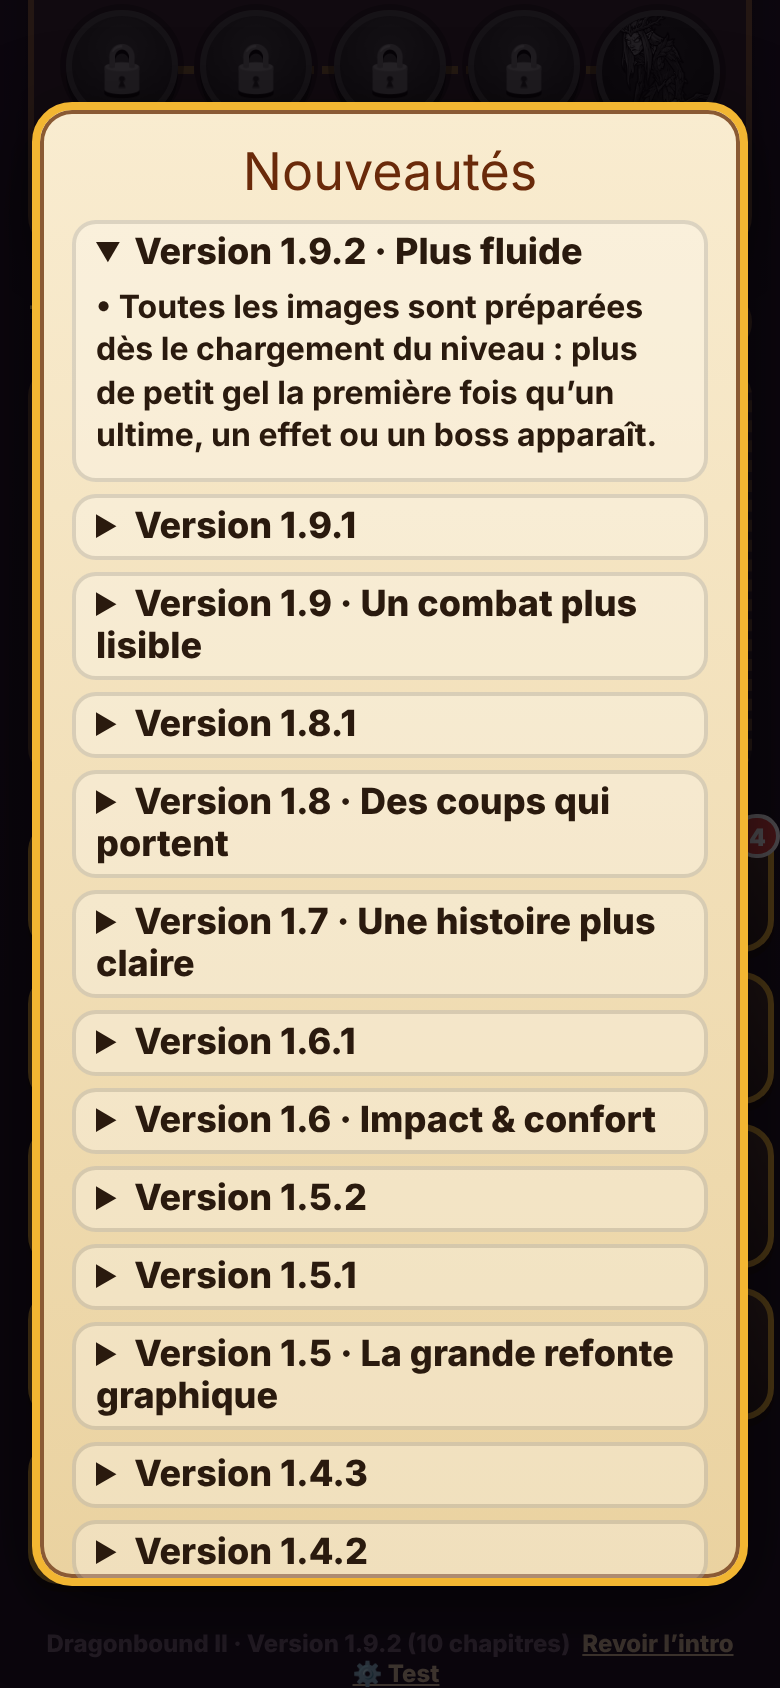
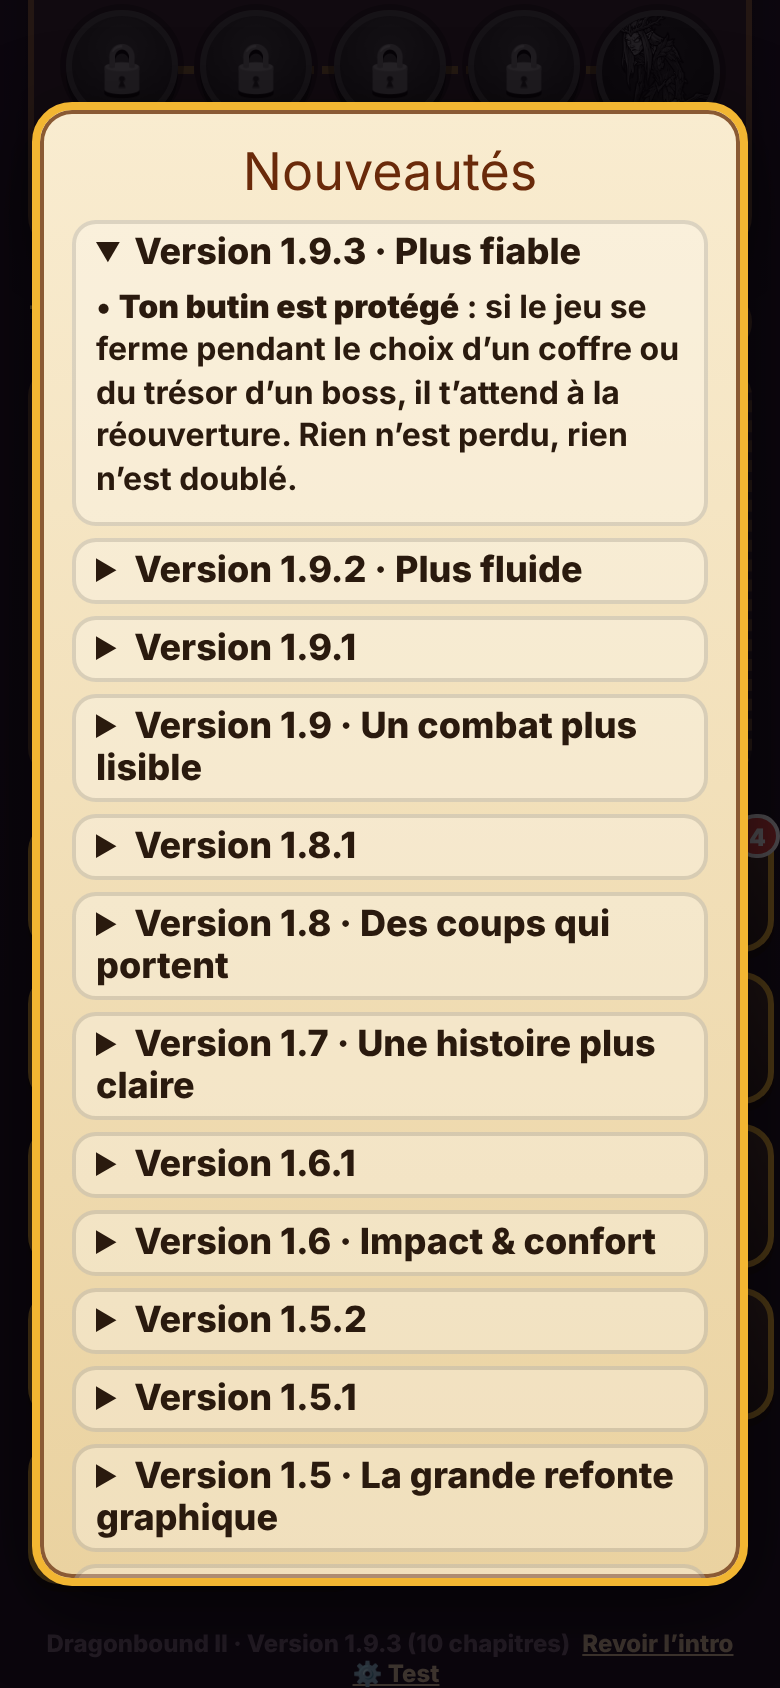
Dragonbound II 1.9.3 : lot 1 Fiabilité (butin protégé, interrupteur version commerciale, tests)
Claude-Session: https://claude.ai/code/session_01G2LeSq3BZwgWtQEzaTDVtd

Changed region(s): [[0.0923, 0.1232, 0.9231, 0.955]]

diff --git a/prototype/dragonbound-tests/db211.js b/prototype/dragonbound-tests/db211.js
@@ -8,7 +8,7 @@ const H = ['aldric', 'selena', 'orin', 'lyra', 'nyx'];
 const inv = [{ id: 1, slot: 'w', r: 1, t: 3, st: { atk: 6 }, hero: 'aldric', img: 'wSword', name: 'Épée A' }, { id: 2, slot: 'w', r: 3, t: 8, st: { atk: 20 }, hero: 'aldric', img: 'wSword', name: 'Épée B', pw: 'vampire' },
   { id: 3, slot: 'a', r: 2, t: 5, st: { hp: 40, def: 4 }, img: 'a0armure', name: 'Armure C' }, { id: 4, slot: 'w', r: 2, t: 5, st: { atk: 12 }, hero: 'nyx', img: 'wDaggers', name: 'Dagues N' }];
 const base = o => Object.assign({ v: 2, gold: 100, items: { pot: 3, eth: 1, fea: 1, eli: 0 }, h: Object.fromEntries(H.map(k => [k, { lvl: 6, xp: 0, w: 0, a: 0, eq: k === 'aldric' ? { w: 1 } : {} }])),
-  team: ['aldric', 'selena'], own: { aldric: 1, selena: 1 }, stars: Array(50).fill(0), seen: { in: 1, vid: 1, vid2: 1, n09: 1, n10: 1, ver: '1.9.2' }, mute: true, ch: 1, inv, nid: 10, spd: 3 }, o);
+  team: ['aldric', 'selena'], own: { aldric: 1, selena: 1 }, stars: Array(50).fill(0), seen: { in: 1, vid: 1, vid2: 1, n09: 1, n10: 1, ver: '1.9.3' }, mute: true, ch: 1, inv, nid: 10, spd: 3 }, o);
 srv.listen(0, async () => {
   const url = `http://127.0.0.1:${srv.address().port}/dragonbound2/index.html`, b = await chromium.launch(), errs = [];
   for (const [w, h, tag] of [[390, 844, 'portrait'], [1180, 820, 'paysage']]) {
@@ -50,7 +50,7 @@ srv.listen(0, async () => {
     // news once per version: old 1.0.2 save (n10, no ver)
     await load(base({ seen: { in: 1, vid: 1, vid2: 1, n09: 1, n10: 1 } })); const h3 = await pg.textContent('#modal:not([hidden]) h3').catch(() => ''); await closeAll();
     await pg.reload(); await pg.click('#title'); await pg.waitForTimeout(500); const again = await pg.$('#modal:not([hidden]) h3') ? await pg.textContent('#modal:not([hidden]) h3') : '';
-    s = await S(); ok(`[${tag}] Nouveautés 1.1 montrées une seule fois (sauvegarde 1.0.2)`, h3.startsWith('Version 1.9.2') && !again.includes('Version 1.9.2') && s.seen.ver === '1.9.2' && s.inv.length === 4, `1er : ${h3} · 2e : ${again || 'rien'}`);
+    s = await S(); ok(`[${tag}] Nouveautés 1.1 montrées une seule fois (sauvegarde 1.0.2)`, h3.startsWith('Version 1.9.3') && !again.includes('Version 1.9.3') && s.seen.ver === '1.9.3' && s.inv.length === 4, `1er : ${h3} · 2e : ${again || 'rien'}`);
     await ctx.close();
   }
   ok('Aucune erreur JavaScript', !errs.length, errs.join(' | '));

diff --git a/prototype/dragonbound2/index.html b/prototype/dragonbound2/index.html
@@ -347,7 +347,7 @@ table.cmp .up { color: #2f7a3a; font-weight: 900; } table.cmp .down { color: #b5
 <script>
 (() => {
 'use strict';
-const VERSION = 'Dragonbound II · Version 1.9.2 (10 chapitres)';
+const VERSION = 'Dragonbound II · Version 1.9.3 (10 chapitres)';
 // 2.0 lot 1: ONE switch for the store build. COMMERCIAL = true removes the test menu and the ×10-×30 speeds for everyone;
 // while it is false, adding ?release to the address previews the commercial build without touching the code.
 const COMMERCIAL = false;
@@ -2163,6 +2163,7 @@ renderHome();
 function afterIntro() { if (S.pend && S.pend.length) { toast('🎁 Le butin de ton dernier combat t’attend !'); return runPend().then(afterIntro); } if (!S.seen.in) { S.seen.ver = VER; return story('in', helpSheet); } if (S.seen.ver !== VER) { S.seen.ver = VER; save(); return newsSheet(() => { if (loginReady()) loginSheet(); }); } if (loginReady()) loginSheet(); }
 // 1.1: every version's notes live here; the newest is shown once per version, the whole list from the Nouveautés button
 const CHANGELOG = [
+  { v: '1.9.3', t: 'Version 1.9.3 · Plus fiable', d: `<p>• <b>Ton butin est protégé</b> : si le jeu se ferme pendant le choix d’un coffre ou du trésor d’un boss, il t’attend à la réouverture. Rien n’est perdu, rien n’est doublé.</p>` },
   { v: '1.9.2', t: 'Version 1.9.2 · Plus fluide', d: `<p>• Toutes les images sont préparées dès le chargement du niveau : plus de petit gel la première fois qu’un ultime, un effet ou un boss apparaît.</p>` },
   { v: '1.9.1', t: 'Version 1.9.1', d: `<p>• La caméra ne sort plus du décor quand elle zoome (plus de bande noire pendant la chute d’un boss).</p>` },
   { v: '1.9', t: 'Version 1.9 · Un combat plus lisible', d: `<p>• <b>Chaque compétence s’explique</b> : touche-la une fois pour voir ce qu’elle fait, son coût et qui elle touche. Touche-la encore (ou touche la cible) pour la lancer. L’attaque de base et la Défense restent en un seul geste.</p><p>• <b>Barre d’actions allégée</b> : icônes plus grandes, et toutes les potions rangées dans le <b>Sac 🎒</b>.</p><p>• Les icônes d’état des héros ne débordent plus.</p>` },

diff --git a/prototype/dragonbound-tests/db151.js b/prototype/dragonbound-tests/db151.js
@@ -5,7 +5,7 @@ const srv = http.createServer((q, r) => { const p = path.join(ROOT, decodeURICom
 const H = ['aldric', 'selena', 'orin', 'lyra', 'nyx'], res = [], ok = (n, c, x = '') => (c || (process.exitCode = 1), res.push(`${c ? '✅' : '❌'} ${n}${x ? ' — ' + x : ''}`));
 const it = (id, slot, r, st, hero) => ({ id, slot, r, t: 5, st, hero, name: 'x' });
 const inv = [it(1, 'w', 0, { atk: 5 }, 'aldric'), it(2, 'w', 4, { atk: 50 }, 'aldric'), it(3, 'a', 0, { hp: 10, def: 1 }), it(4, 'a', 1, { hp: 15, def: 1 }), it(5, 'a', 3, { hp: 80, def: 8 }), it(6, 'j', 2, { crit: .01 }), it(7, 'a', 4, { hp: 200, def: 20 })];
-const save = { v: 2, gold: 100, gem: 0, items: { pot: 3, eth: 1, fea: 1, eli: 0 }, h: Object.fromEntries(H.map(k => [k, { lvl: 10, xp: 0, w: 0, a: 0, eq: k === 'aldric' ? { w: 2, a: 7 } : {} }])), team: ['aldric'], own: { aldric: 1 }, stars: Array(50).fill(0), seen: { in: 1, vid: 1, vid2: 1, n09: 1, n10: 1, ver: '1.9.2' }, mute: true, ch: 0, inv, nid: 20, spd: 1, m12: 1, tc: { kills: 1200, thermal: 20, embrase: 20, brise: 20 } };
+const save = { v: 2, gold: 100, gem: 0, items: { pot: 3, eth: 1, fea: 1, eli: 0 }, h: Object.fromEntries(H.map(k => [k, { lvl: 10, xp: 0, w: 0, a: 0, eq: k === 'aldric' ? { w: 2, a: 7 } : {} }])), team: ['aldric'], own: { aldric: 1 }, stars: Array(50).fill(0), seen: { in: 1, vid: 1, vid2: 1, n09: 1, n10: 1, ver: '1.9.3' }, mute: true, ch: 0, inv, nid: 20, spd: 1, m12: 1, tc: { kills: 1200, thermal: 20, embrase: 20, brise: 20 } };
 srv.listen(0, async () => { const b = await chromium.launch(), pg = await b.newPage(), errs = []; pg.on('pageerror', e => errs.push(e.message));
   const url = `http://127.0.0.1:${srv.address().port}/dragonbound2/index.html`, S = () => pg.evaluate(k => JSON.parse(localStorage.getItem(k)), KEY);
   await pg.goto(url); await pg.evaluate(([k, s]) => localStorage.setItem(k, JSON.stringify(s)), [KEY, save]); await pg.goto(url); await pg.click('#title'); await pg.waitForTimeout(500);

diff --git a/prototype/dragonbound-tests/db212.js b/prototype/dragonbound-tests/db212.js
@@ -9,7 +9,7 @@ const H = ['aldric', 'selena', 'orin', 'lyra', 'nyx'];
 const inv = [{ id: 1, slot: 'w', r: 2, t: 12, st: { atk: 20 }, hero: 'aldric', img: 'wAxe', name: 'Hache du bourreau' }, { id: 2, slot: 'a', r: 3, t: 12, st: { hp: 90, def: 9 }, img: 'a2armure', name: 'Armure de braise' },
   { id: 3, slot: 'j', r: 2, t: 33, st: { crit: .05 }, img: 'a4amulette', name: 'Pendentif de givre' }, { id: 4, slot: 'w', r: 4, t: 48, st: { mag: 60, crit: .08 }, hero: 'orin', img: 'wLegM', name: 'Bâton du Néant' }, { id: 5, slot: 'a', r: 0, t: 3, st: { hp: 20, def: 1 }, img: 'a0armure', name: 'Armure d’os' }];
 const base = o => Object.assign({ v: 2, gold: 1000, gem: 0, items: { pot: 3, eth: 1, fea: 1, eli: 0 }, h: Object.fromEntries(H.map(k => [k, { lvl: 12, xp: 0, w: 2, a: 2, eq: k === 'aldric' ? { w: 1, a: 2 } : {} }])),
-  team: ['aldric', 'selena', 'orin'], own: { aldric: 1, selena: 1, orin: 1 }, stars: [3, 3, 3, 3, 3, 2].concat(Array(44).fill(0)), seen: { in: 1, vid: 1, vid2: 1, n09: 1, n10: 1, ver: '1.9.2', in2: 1 }, mute: true, ch: 1, inv, nid: 10, spd: 3 }, o);
+  team: ['aldric', 'selena', 'orin'], own: { aldric: 1, selena: 1, orin: 1 }, stars: [3, 3, 3, 3, 3, 2].concat(Array(44).fill(0)), seen: { in: 1, vid: 1, vid2: 1, n09: 1, n10: 1, ver: '1.9.3', in2: 1 }, mute: true, ch: 1, inv, nid: 10, spd: 3 }, o);
 srv.listen(0, async () => {
   const url = `http://127.0.0.1:${srv.address().port}/dragonbound2/index.html`, b = await chromium.launch(), errs = [];
   for (const [w, h, tag] of [[390, 844, 'portrait'], [1180, 820, 'paysage']]) {

diff --git a/prototype/dragonbound-tests/db2check.js b/prototype/dragonbound-tests/db2check.js
@@ -6,7 +6,7 @@ const MIME = { '.html': 'text/html', '.webp': 'image/webp', '.jpg': 'image/jpeg'
 const srv = http.createServer((q, r) => { const p = path.join(ROOT, decodeURIComponent(q.url.split('?')[0])); fs.readFile(p, (e, d) => { if (e) { r.writeHead(404); return r.end(); } r.writeHead(200, { 'content-type': MIME[path.extname(p)] || 'application/octet-stream' }); r.end(d); }); });
 const res = [], ok = (name, cond, extra = '') => (cond || (process.exitCode = 1), res.push(`${cond ? '✅' : '❌'} ${name}${extra ? ' — ' + extra : ''}`));
 const base = over => Object.assign({ v: 2, gold: 100, items: { pot: 3, eth: 1, fea: 1, eli: 0 }, h: Object.fromEntries(['aldric', 'selena', 'orin', 'lyra', 'nyx'].map(k => [k, { lvl: 3, xp: 0, w: 0, a: 0 }])),
-  team: ['aldric'], own: { aldric: 1 }, stars: Array(30).fill(0), seen: { in: 1, vid: 1, vid2: 1, n09: 1, n10: 1, ver: '1.9.2' }, mute: true, ch: 0, inv: [], nid: 1, spd: 3 }, over);
+  team: ['aldric'], own: { aldric: 1 }, stars: Array(30).fill(0), seen: { in: 1, vid: 1, vid2: 1, n09: 1, n10: 1, ver: '1.9.3' }, mute: true, ch: 0, inv: [], nid: 1, spd: 3 }, over);
 srv.listen(0, async () => {
   const url = `http://127.0.0.1:${srv.address().port}/dragonbound2/index.html`, b = await chromium.launch(), errs = [];
   const ctx = await b.newContext({ viewport: { width: 390, height: 844 }, deviceScaleFactor: 2, hasTouch: true });
